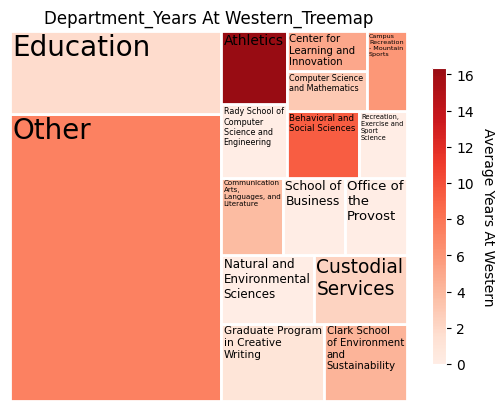
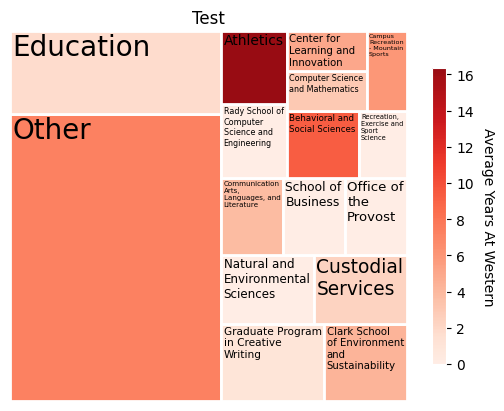
Improved Regenerate Graphs

diff --git a/main.py b/main.py
@@ -147,30 +147,36 @@ def getGraphsFromDb(listOfGraphs):
     return retList
 
 
-def regenerateGraphs():
+def regenerateGraphs(specificGraph = None):
     dataset_path = './static/datasets/current.csv'
-    graphs = Graphs.query.all()
+
+    graphs = Graphs.query.all() if specificGraph == None else specificGraph
     for graph in graphs:
         img = graph.path.replace('./static/graphs/', '')[:-4].split('_')
         type= img[-1]
         title = graph.title
+        description = None
         useQuantity = graph.useQuantity
         if type == 'Stacked Bar' or type == 'Treemap':
             columnName1 = img[0]
             columnName2 = img[1]
             imageName = makeImageName(columnName1 + "_" + columnName2, type, False)
             if (type == 'Stacked Bar'):
-                stackedBarChart(columnName1, columnName2, imageName, title, useQuantity)
+                description = stackedBarChart(columnName1, columnName2, imageName, title, useQuantity)
             else:
-                treemap(columnName1, columnName2, imageName, title, useQuantity)
+                description = treemap(columnName1, columnName2, imageName, title, useQuantity)
         else:
             columnName1 = img[0]
-            if type == 'Pie' or type == 'Treemap' or type == 'Bar':
+            if type == 'Pie' or type == 'Bar':
                 imageName = makeImageName(columnName1, type, False)
-                singleCategoryGraph(type, columnName1, imageName, title, useQuantity)
+                description = singleCategoryGraph(type, columnName1, imageName, title, useQuantity)
             if type == 'Histogram':
                 imageName = makeImageName(columnName1, type, False)
-                histogram(columnName1, imageName, title, useQuantity)
+                description = histogram(columnName1, imageName, title, useQuantity)
+        
+        graph.description = description
+        db.session.add(graph)
+        db.session.commit()
 
 
 
@@ -402,7 +408,6 @@ def selectDataset(filename):
         destinationPath = os.path.join(destination, filename)
 
         shutil.copy2(destinationPath, os.path.join(destination, 'current.csv'))
-
         regenerateGraphs()
         setCurrentDataset(filename)
 
@@ -471,7 +476,6 @@ def editGraph(imgName):
 
     graphDir = './static/graphs/' + imgName
     graphToEdit = Graphs.query.filter_by(path=graphDir).first()
-
     if request.method == 'POST':
         graphToEdit.title = request.form['title']
         graphToEdit.description = request.form['description']
@@ -514,6 +518,7 @@ def updateGraphInfo(graph_id):
     new_description = request.form['new_description']
     graph.title= new_title
     graph.description = new_description
+    regenerateGraphs([graph])
     db.session.add(graph)
     db.session.commit()
     return redirect('/uploadGraphs')
